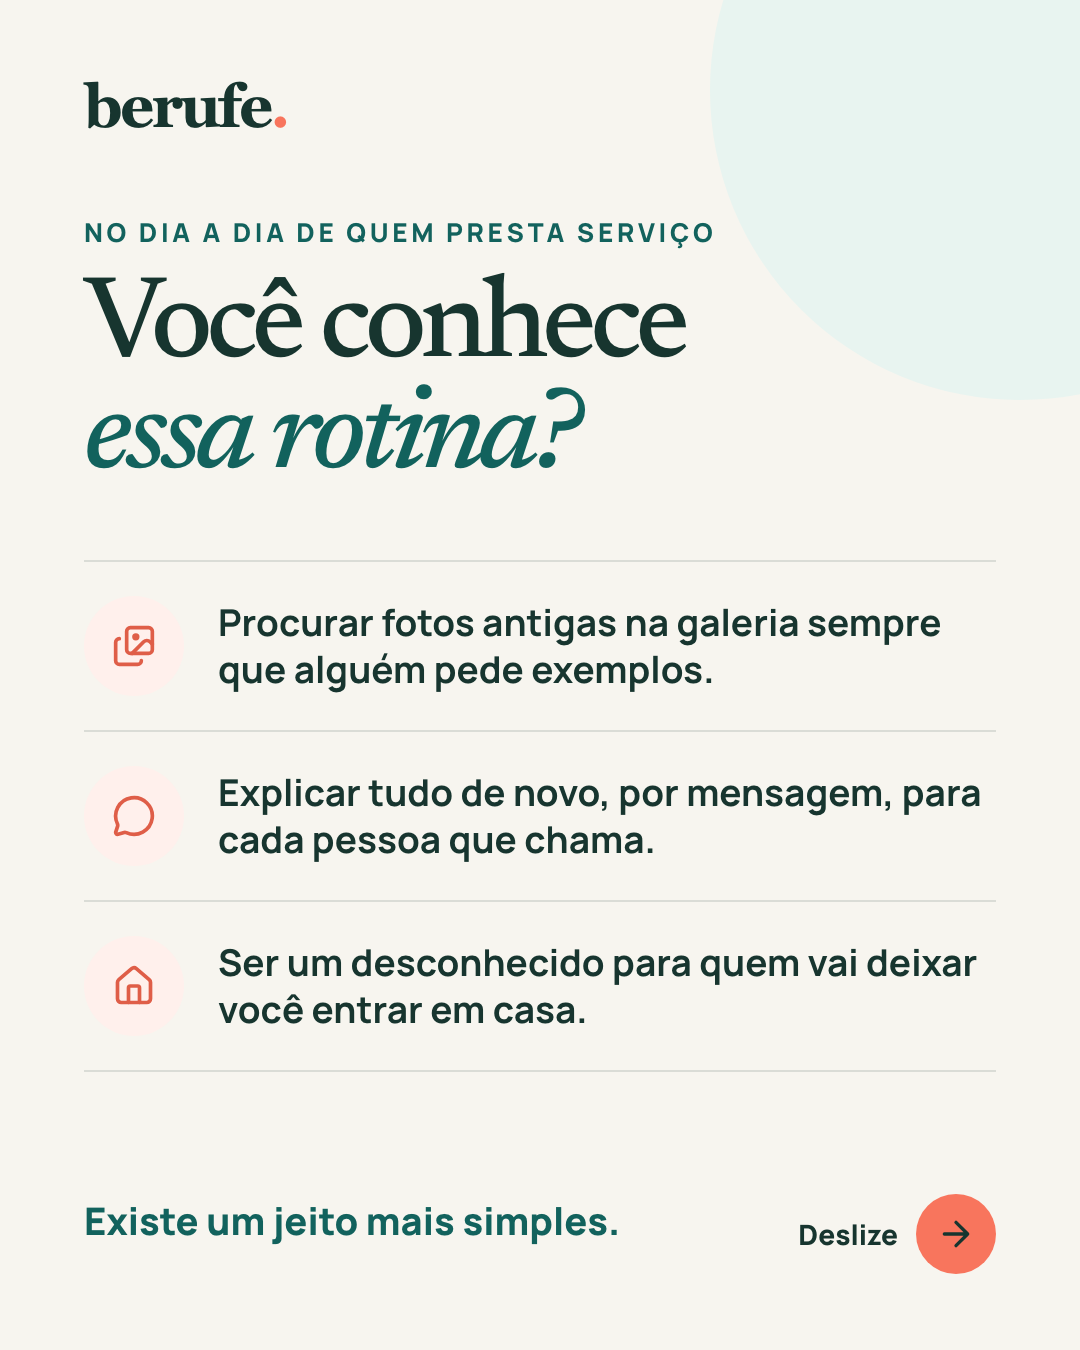
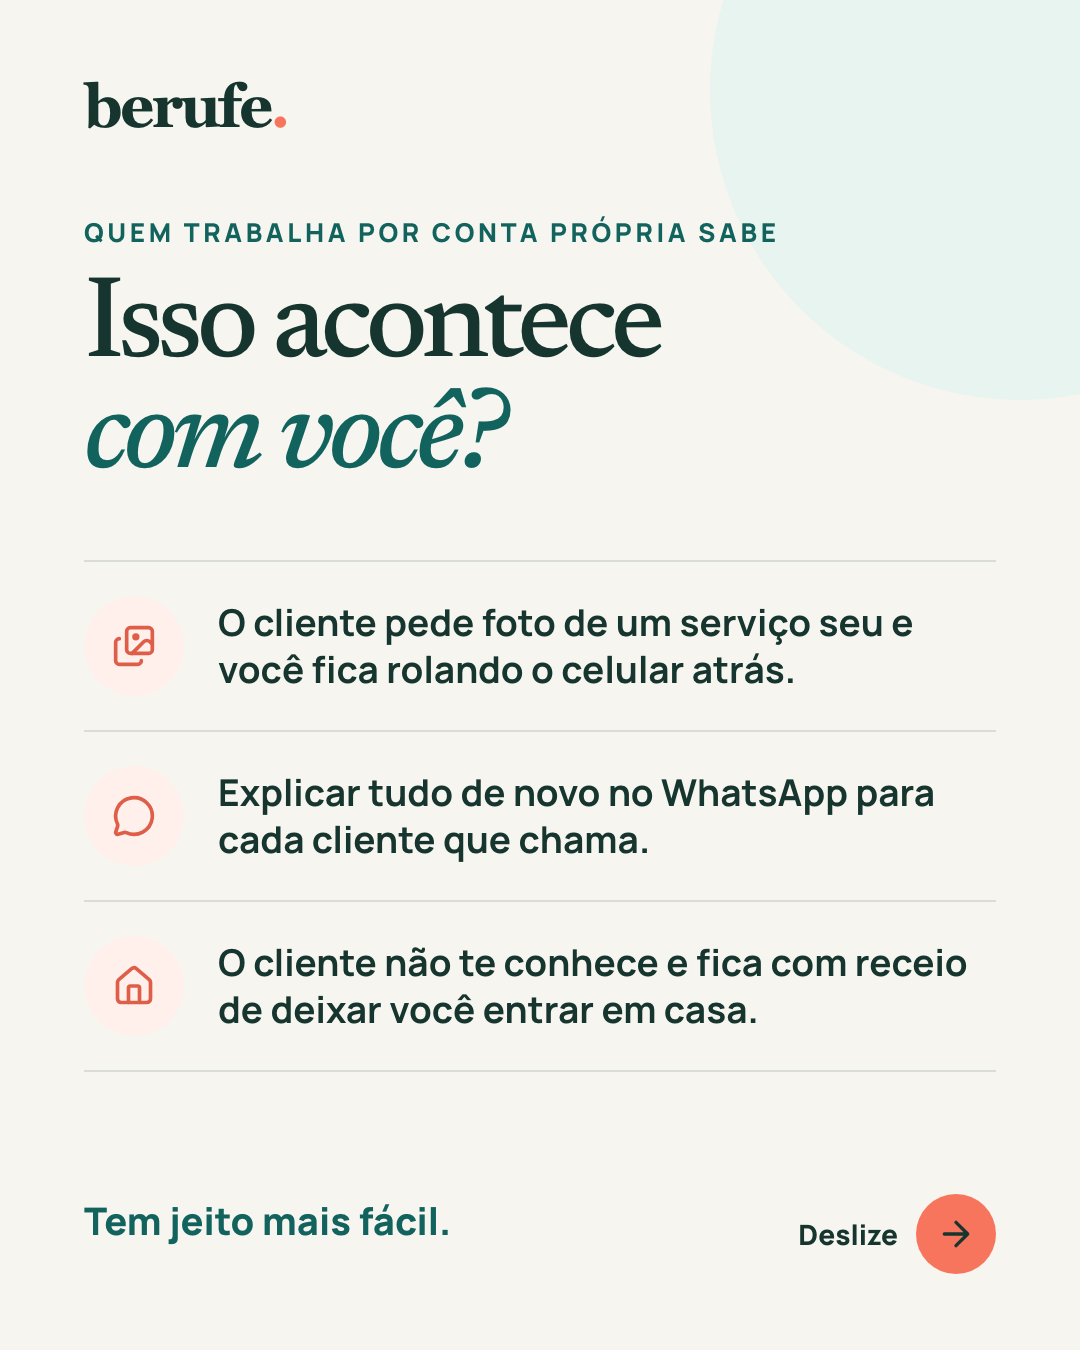
Rewrite the professionals' post in the voice of the people it targets
'Mande um link', 'portfólio', 'contato direto' and 'comissão' are product
and marketing words, not how a pedreiro, eletricista or diarista talks.
The cover now calls out their trades and leads with pride in the work
('Serviço bem feito tem que aparecer'); the pains use their situations
(photos lost in the phone, explaining everything again, a customer who
does not know you); and each feature is named in plain terms ('sem
atravessador', 'R$ 0 por cliente que chamar você', '0% do valor do
serviço fica com a Berufe'). The claims themselves are unchanged and
still promise no customers. post.md now documents the vocabulary swaps.

diff --git a/arts/instagram/posts/profissional_post_001/post.md b/arts/instagram/posts/profissional_post_001/post.md
@@ -1,46 +1,63 @@
-# profissional_post_001 — "Mande um link"
+# profissional_post_001 — "Serviço bem feito tem que aparecer"
 
-First Instagram post, aimed at **professionals** (people who provide home services), not at customers.
-A 5-slide carousel, 1080×1350 (4:5). Paste `caption.txt` as the caption.
+First Instagram post, aimed at **professionals**: Brazilian self-employed home-service workers
+(pedreiro, eletricista, pintor, encanador, diarista…), not at customers. A 5-slide carousel,
+1080×1350 (4:5). Paste `caption.txt` as the caption.
 
 Source: `arts/src/posts/profissional_post_001.mjs` (`node arts/src/build.mjs profissional_post_001`
 re-renders the slides).
 
+## Voice
+
+Written the way these professionals talk, not the way the product is specced: plain words about
+their world (serviço, cliente, foto do serviço, orçamento, indicação), short sentences, pride in the
+work first and the tool second. Product jargon was swapped out:
+
+| Product word         | On the slides                              |
+| -------------------- | ------------------------------------------ |
+| portfólio            | fotos dos serviços que você já fez         |
+| contato direto       | o cliente chama você direto no WhatsApp    |
+| sem intermediário    | sem atravessador                           |
+| comissão             | 0% do valor do serviço fica com a Berufe   |
+| taxa por contato     | R$ 0 por cliente que chamar você           |
+| "Mande um link" (v1) | "Serviço bem feito tem que aparecer"       |
+
+The cover calls out their trades by name ("Pedreiro, eletricista, pintor…") so they recognise
+themselves in the feed.
+
 ## Angle
 
-The cover shows the hook as a chat every professional has had: a customer asks for examples of their
-work and the reply is a link. (An earlier cover used the house illustration from the customer ads; it
-read as customer-facing, so it was replaced.) The
-carousel names three everyday pains, then answers each one with something the product does today.
+The cover shows a chat every professional has had: a customer asks for photos of past work. The
+carousel then names three everyday pains and answers each one with something the product does today.
 
-| Pain (slide 2)                                                  | What answers it                                                    |
-| --------------------------------------------------------------- | ------------------------------------------------------------------ |
-| Digging through old photos when someone asks for examples       | Portfolio on the public profile, shared as one link (slide 3)      |
-| Re-explaining everything by message, person by person           | Profile with services, coverage area and contact in one place (3)  |
-| Being a stranger to someone who will let you into their home    | Identity-verified label and references from other professionals (3) |
-| _(slide 4)_ Paying per contact or giving a cut of the job        | R$ 0 per contact and 0% commission; direct WhatsApp contact        |
-| _(slide 4)_ Quotes improvised in chat                            | Quote link: fixed price or itemized, opened on the customer's phone without an account |
+| Pain (slide 2)                                                         | What answers it                                                                      |
+| ---------------------------------------------------------------------- | ------------------------------------------------------------------------------------ |
+| Scrolling the phone for photos when a customer asks                    | Photos of past services on the profile, at `berufe.com.br/be/seu-nome` (slide 3)      |
+| Explaining everything again on WhatsApp, customer by customer          | Services, coverage area and photos in one place (3)                                  |
+| The customer doesn't know you and hesitates to let you into their home | Identity-verified label and indications from other professionals (3)                 |
+| _(slide 4)_ Paying per contact or giving a cut of the job              | R$ 0 per customer who calls; 0% of the service value goes to Berufe                  |
+| _(slide 4)_ Quotes improvised in chat                                  | Quote on the phone: fixed price or itemized, opened by the customer without account  |
 
 ## Slides
 
-| #   | File                   | On-slide text                                                                                                                              |
-| --- | ---------------------- | ------------------------------------------------------------------------------------------------------------------------------------------ |
-| 1   | `slide-01-cover.png`    | Para quem presta serviços — chat: "Oi! Você tem fotos de trabalhos que já fez?" → "Claro! Dá uma olhada:" + link — **Mande um link.** — Seu perfil na Berufe reúne serviços, fotos dos trabalhos e contato direto. Selo "Perfil grátis". |
-| 2   | `slide-02-pains.png`    | Você conhece essa rotina? — Procurar fotos antigas… · Explicar tudo de novo… · Ser um desconhecido… — Existe um jeito mais simples.        |
-| 3   | `slide-03-profile.png`  | Seu trabalho num link só. — berufe.com.br/be/seu-nome — Serviços e região · Portfólio · Selo de identidade verificada · Indicações — Mande pelo WhatsApp ou fixe na bio do Instagram. |
-| 4   | `slide-04-direct.png`   | Fale direto com o cliente. Sem pagar por isso. — R$ 0 por contato recebido · 0% de comissão sobre o serviço — Orçamento pelo WhatsApp      |
-| 5   | `slide-05-cta.png`      | Crie seu perfil grátis. — 1 Confirme celular ou e-mail · 2 Serviços e região · 3 Fotos e verificação quando quiser — Criar perfil grátis (link na bio) |
+| #   | File                   | On-slide text                                                                                                                                                                                                                  |
+| --- | ---------------------- | ------------------------------------------------------------------------------------------------------------------------------------------------------------------------------------------------------------------------------ |
+| 1   | `slide-01-cover.png`   | Pedreiro, eletricista, pintor… — chat: "Boa tarde! Tem foto de serviço que você já fez?" → "Tenho sim! Olha aqui:" + address — **Serviço bem feito tem que aparecer.** — Junte suas fotos e seus serviços num lugar só. É de graça. Selo "Perfil grátis". |
+| 2   | `slide-02-pains.png`   | Quem trabalha por conta própria sabe — Isso acontece com você? — foto perdida no celular · explicar tudo de novo no WhatsApp · cliente com receio — Tem jeito mais fácil.                                                       |
+| 3   | `slide-03-profile.png` | Seu serviço num lugar só. — berufe.com.br/be/seu-nome — Serviços e onde atende · Fotos dos serviços · Selo de identidade verificada · Indicação de outros profissionais — Mande no WhatsApp ou coloque na bio do Instagram.      |
+| 4   | `slide-04-direct.png`  | Sem atravessador — O cliente chama você direto no WhatsApp. — R$ 0 por cliente que chamar você · 0% do valor do serviço fica com a Berufe — Orçamento no celular                                                                |
+| 5   | `slide-05-cta.png`     | Crie seu perfil grátis. — 1 Confirme celular ou e-mail · 2 Serviços e onde atende · 3 Fotos e identidade quando quiser — Criar perfil grátis (link na bio)                                                                       |
 
-The profile grid crops posts to the centre 3:4, so every slide keeps its content inside 84 px side
-margins.
+The profile grid crops posts to the centre 3:4, so every slide keeps its content inside 84 px
+side margins.
 
 ## Alt text (paste into "Advanced settings → Write alternative text", one per slide)
 
-1. Conversa de mensagens: um cliente pergunta "Oi! Você tem fotos de trabalhos que já fez?" e o profissional responde "Claro! Dá uma olhada:" com um link de perfil da Berufe. Abaixo, o título "Mande um link." e o texto "Seu perfil na Berufe reúne serviços, fotos dos trabalhos e contato direto." Um selo diz "Perfil grátis".
-2. Título "Você conhece essa rotina?" e três situações do dia a dia: procurar fotos antigas na galeria, explicar tudo de novo por mensagem e ser um desconhecido para quem vai deixar você entrar em casa. Abaixo: "Existe um jeito mais simples."
-3. Título "Seu trabalho num link só" com um endereço de perfil da Berufe e quatro cartões: serviços e região de atendimento, portfólio com fotos dos trabalhos, selo de identidade verificada e indicações de outros profissionais.
-4. Título "Fale direto com o cliente. Sem pagar por isso." com dois destaques, "R$ 0 por contato recebido" e "0% de comissão sobre o serviço", e um cartão sobre orçamento enviado pelo WhatsApp.
-5. Título "Crie seu perfil grátis" com três passos: confirmar celular ou e-mail, escolher serviços e região, adicionar fotos e verificação de identidade quando quiser. Botão "Criar perfil grátis" e o aviso "Link na bio".
+1. Conversa de mensagens: um cliente pergunta "Boa tarde! Tem foto de serviço que você já fez?" e o profissional responde "Tenho sim! Olha aqui:" com o endereço de um perfil da Berufe. Abaixo, o título "Serviço bem feito tem que aparecer." e o texto "Junte suas fotos e seus serviços num lugar só. É de graça." Um selo diz "Perfil grátis".
+2. Título "Isso acontece com você?" e três situações: o cliente pede foto de um serviço e você fica rolando o celular atrás, explicar tudo de novo no WhatsApp para cada cliente, e o cliente que não te conhece e tem receio de deixar você entrar em casa. Abaixo: "Tem jeito mais fácil."
+3. Título "Seu serviço num lugar só" com o endereço berufe.com.br/be/seu-nome e quatro cartões: os serviços que você faz e onde atende, fotos dos serviços que você já fez, selo de identidade verificada e indicação de outros profissionais.
+4. Título "O cliente chama você direto no WhatsApp" com dois destaques, "R$ 0 por cliente que chamar você" e "0% do valor do serviço fica com a Berufe", e um cartão sobre orçamento no celular.
+5. Título "Crie seu perfil grátis" com três passos: confirmar celular ou e-mail, dizer quais serviços faz e onde atende, e colocar fotos e confirmar a identidade quando quiser. Botão "Criar perfil grátis" e o aviso "Link na bio".
 
 ## What the post does not claim (on purpose)
 
@@ -50,18 +67,21 @@ Everything on the slides comes from `apps/web/app/pages/para-profissionais`,
 - **No promise of customers or leads.** The product is early; the founder's script says plainly
   "não vou te prometer clientes que ainda não temos". The caption only says people who search by
   service and city _can_ find the profile.
-- **No customer reviews or ratings.** References come from other professionals in the network.
+- **No customer reviews or ratings.** Indications come from other professionals in the network.
 - **No fabricated profile or conversation.** The cover chat is a generic scenario (no names, no
-  timestamps, no WhatsApp branding) and slides 1 and 3 show a placeholder address (`seu-nome`), not a
-  real person.
+  timestamps, no WhatsApp branding) and slides 1 and 3 show a placeholder address (`seu-nome`), not
+  a real person.
 - **No "Google ranking" or traffic numbers.**
 
 ## Before publishing
 
+- **Profile address** is `berufe.com.br/be/<slug>` (`apps/web/app/utils/publicProfiles.ts`). If that
+  route changes, update `PROFILE_URL` in the template and re-render.
 - **Link in bio** should point at `https://www.berufe.com.br/para-profissionais`. To measure this
   post, use `…/para-profissionais?utm_source=instagram&utm_medium=social&utm_campaign=profissional_post_001`.
 - No Instagram handle is defined anywhere in the repo, so the caption does not mention one. Add an
   `@` mention or a "siga @…" line if the account name is final.
+- No city is named on the slides: location is set when building the audience on Instagram. The
+  caption still lists the four cities and uses city hashtags; remove them if you prefer.
 - If the product changes before the post goes out (fees, verification, quotes), re-check the slides
   against the live `/para-profissionais` page.
-- No city is named on the slides: location is set when building the audience on Instagram.

diff --git a/arts/README.md b/arts/README.md
@@ -29,7 +29,7 @@ templates live in `src/posts/<name>.mjs`; render one with `node arts/src/build.m
 
 | Post                       | Audience      | Angle                                                                                                  |
 | -------------------------- | ------------- | ------------------------------------------------------------------------------------------------------ |
-| `profissional_post_001/`   | Professionals | "Mande um link": everyday pains (old photos, re-explaining, being a stranger) answered by the free profile, direct WhatsApp contact and quotes. Promises no customers. |
+| `profissional_post_001/`   | Professionals | "Serviço bem feito tem que aparecer": everyday pains (photos lost in the phone, re-explaining, a customer who does not know you) answered by the free profile, WhatsApp contact with no fees and quotes, in the professionals' own words. Promises no customers. |
 
 ## Google Ads
 
